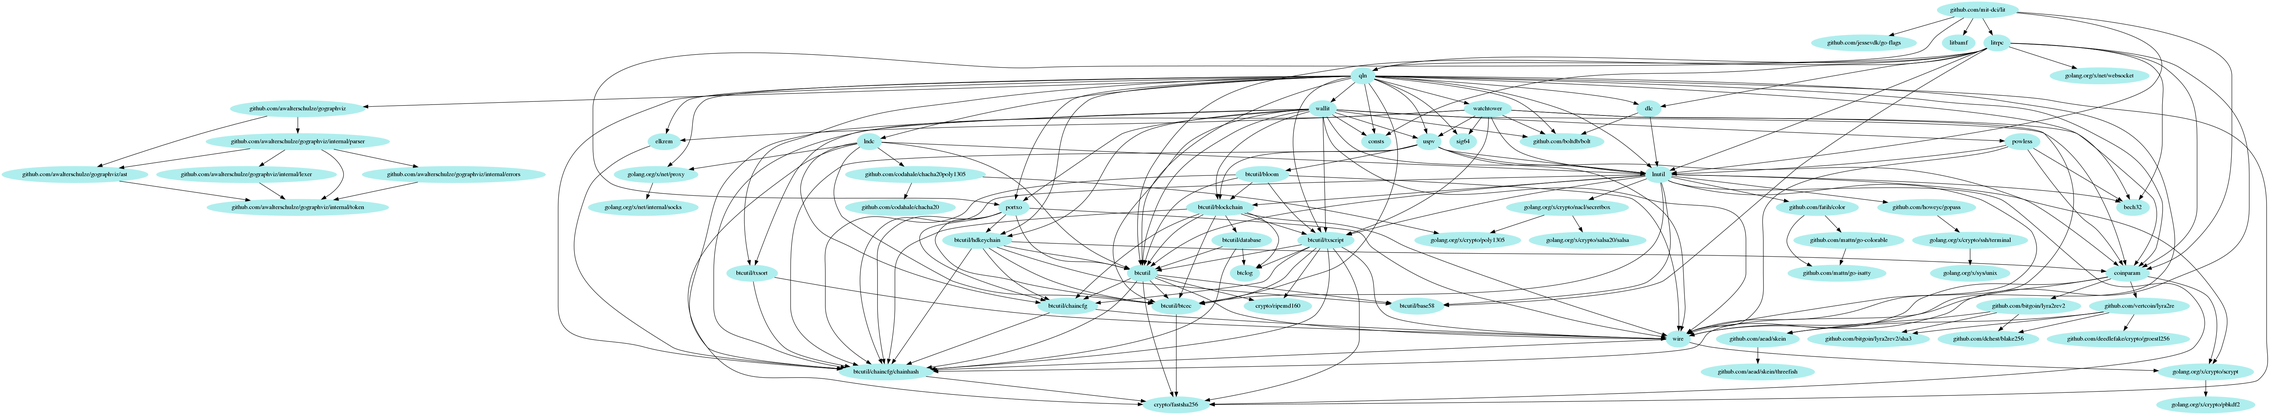
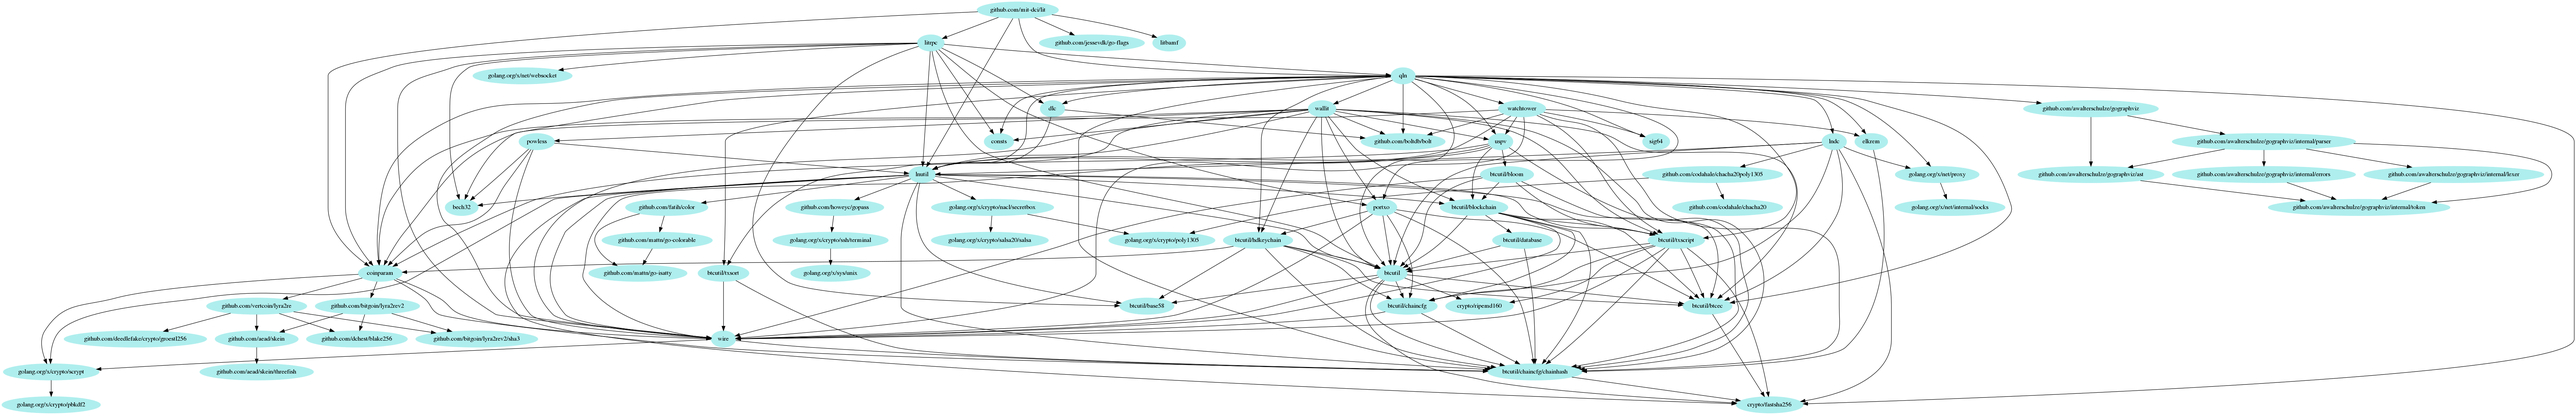
Fixed Makefile and cleaned up README (#269)
* Disabled building glit as part of `make all` since it doesn't actually work.

* Fixed incorrect btcd import.

* Updated dependency graph.

* Updated the README with cleaned up build instructions.

* More minor cleanups to README.

* Made the Makefile actually run tests now with `make`.

* Updated readme to reflect previous changes.

* Added multi-platform compilation and packaging script.

Also tweaked gitignores.

* Made the packaging script be a little prettier.

* Include README, LICENSE, and logo.
* If the commit has a git tag, use that instead of the hash in the relevant places.

* Let you select which arches/OSes to package for, and made the Git tag selection stricter.

Also updated the README to account for the new changes.

* Added automatic packaging for Linux/ARM.

diff --git a/qln/dualfund.go b/qln/dualfund.go
@@ -4,7 +4,7 @@ import (
 	"fmt"
 	"log"
 
-	"github.com/adiabat/btcd/btcec"
+	"github.com/mit-dci/lit/btcutil/btcec"
 	"github.com/mit-dci/lit/btcutil/txsort"
 	"github.com/mit-dci/lit/elkrem"
 	"github.com/mit-dci/lit/lnutil"

diff --git a/README.md b/README.md
@@ -10,74 +10,92 @@ Under development, not for use with real money.
 
 ### Prerequisites
 
-- [Git](https://git-scm.com/)
-- [Go](https://golang.org/doc/install)
+* [Git](https://git-scm.com/)
 
-- [Go](https://golang.org/doc/install)
+* [Go](https://golang.org/doc/install)
 
-- (Optional, Windows) a [Cygwin](https://cygwin.com/install.html) environment might make things easier for you.
+* make
+
+* (Optional, Windows) a [Cygwin](https://cygwin.com/install.html) environment might make things easier for you.
 
 ### Downloading
 
-1. Clone this repo with `git clone https://github.com/mit-dci/lit` or do `go get github.com/mit-dci/lit`
+Just use Git to download the repo and then cd into it.
 
-2. `cd` into the `lit` directory (either inside your GOPATH or your cloned directory)
-
-3. Run `make lit` to build lit and `make test` to run the tests. `make test with-python=true` will include the python tests (requires `bitcoind`). Alternatively, you can run `go build` to build lit if you're building inside your GOPATH.
-
-### Installing
-
-1. Set your Go variables to match your installed paths are set correctly:
-- `.../go/bin` (your install location) is in `$PATH` (Windows: Add the install location into your `PATH` System Variable)
-- `$GOPATH` is set the location of where you want lit (and other projects) to be
--  optional: If you want to have packages download in a separate location than your installation add `$GOROOT` set to another location
-
-2. Download the lit project with `go get github.com/mit-dci/lit`
-
-4. Run `./lit --tn3 1` to start lit
-
-The words `yup, yes, y, true, 1, ok, enable, on` can be used to specify that lit automatically connect to a set of populated seeds. It can also be replaced by the ip of the remote node you wish to connect to.
-
-### Building
-
-1. Go to the location of your lit installation with your defined gopath variable (`$GOPATH` on Linux and `%GOPATH%` Windows) to the lit location
-
-```
-cd [gopath]/src/github.com/mit-dci/lit
+```bash
+git clone https://github.com/mit-dci/lit
+cd lit
 ```
 
-2. If you try to build now with `go build` you will receive several errors such as
+### Installation
 
-```
-cannot find package "golang.org/x/crypto/nacl/secretbox"
-...
-cannot find package "golang.org/x/crypto/scrypt"
-...
-cannot find package [packageName]
-...
-```
+#### Linux, macOS, Cygwin, etc.
 
-3. In order to download all missing packages, do `go get ./...` or `go get .`
+Go has its own build process and dependency management, but for Lit it's a
+little more complicated, so we set up a Makefile to do most of the work for you.
 
-4. Go back to location of the lit folder if you are not already there ([Step 1](#building)) and try to rebuild the project.
+To build Lit and Lit-AF, just use the following command.  You don't have to have
+a `$GOPATH` set up in any particular way since we handle that for you.
 
-5. You may now want to build `lit-af`, the text based client which controls the lit node using
-
-```
-cd cmd/lit-af
-go build
+```bash
+make # or `make all`
 ```
 
-6. To run lit use:
+This will also run the test suite.  Running `make test with-python=true` will
+include the python tests (requires `bitcoind`) that do some heavier testing.
 
-(Note: Windows users can take off ./ but may need to change lit to lit.exe in the second line.)
+#### Windows
+
+It's recommended to install Cygwin and follow those setup instructions.  Or just
+download prebuilt binaries.
+
+1. Make sure that your `%GOPATH%` environmental variable is set up correctly.
+
+2. Download dependencies and then build with something like this:
 
 ```
-cd GOPATH/src/github.com/mit-dci/lit
-./lit --tn3 true
+go get -v ./...
+cd %GOPATH%\src\github.com\mit-dci\lit
+go build -v .
+go build -v .\cmd\lit-af
 ```
 
-The words `true`, `yes`, `1` can be used to specify that lit automatically connect to a set of populated seeds. It can also be replaced by the ip of the remote node you wish to connect to.
+### Running
+
+The below command will run Lit on the Bitcoin testnet3.  You probably need to
+have `bitcoind` running on your machine such that Lit can connect to it when do
+you this.
+
+(Note: Windows users can take off `./` but may need to change `lit` to `lit.exe`
+in the second line.)
+
+```bash
+./lit --tn3=true
+```
+
+Run `./lit --tn3=true` to start Lit on the Bitcoin testnet3
+
+The words `yup, yes, y, true, 1, ok, enable, on` can be used to specify that Lit
+automatically connect to a set of populated seeds. It can also be replaced by
+the address of the remote node you wish to connect to.
+
+### Packaging
+
+This is a separate thing, but you can make a archive package for distribution by
+using this:
+
+```
+./build/releasebuild.sh <os> <arch>
+```
+
+and it'll be dropped into `build/_releasedir`.  It should support any OS that
+Go and our dependencies support.  Just instead of `windows` use `win` and
+instead of `368` use `i386`.
+
+**ALSO:** You can also package for Linux, macOS, and Windows in both amd64 and
+i386 by just running `make package`.  (Except macOS is only amd64.)
+
+And running `./build/releasebuild.sh clean` will cleanup the dirs it generates.
 
 ## Using Lightning
 
@@ -89,9 +107,11 @@ Great! Now that you are all done setting up lit, you can
 
 ## Command line arguments
 
-When starting lit, the following command line arguments are available. The following commands may also be specified in lit.conf which is automatically generated on startup.
+When starting lit, the following command line arguments are available.  The
+following commands may also be specified in `lit.conf` which is automatically
+generated on startup.
 
-#### connecting to networks:
+#### Connecting to networks
 
 | Arguments                   | Details                                                      | Default Port  |
 | --------------------------- |--------------------------------------------------------------| ------------- |
@@ -99,14 +119,14 @@ When starting lit, the following command line arguments are available. The follo
 | `--reg <nodeHostName>`      | connect to `nodeHostName`, which is a bitcoin regtest node.  | 18444         |
 | `--lt4 <nodeHostName>`      | connect to `nodeHostName`, which is a litecoin testnet4 node.| 19335         |
 
-#### other settings:
+#### Other settings
 
-| Arguments                   | Details                                                      |
-| --------------------------- |--------------------------------------------------------------|
-| `-v` or `--verbose`         | Verbose; log everything to stdout as well as the lit.log file.  Lots of text.|
-| `--dir <folderPath>`        | use `folderPath` as the directory.  By default, saves to `~/.lit/` |
-| `-p` or `--rpcport <portNumber>` | listen for RPC clients on port `portNumber`.  Defaults to `8001`.  Useful when you want to run multiple lit nodes on the same computer (also need the `--dir` option) |
-| `-r` or `--reSync`          | try to re-sync to the blockchain |
+| Arguments                        | Details                                                                                                                                                                |
+| ---------------------------------|------------------------------------------------------------------------------------------------------------------------------------------------------------------------|
+| `-v` or `--verbose`              | Verbose; log everything to stdout as well as the lit.log file.  Lots of text.                                                                                          |
+| `--dir <folderPath>`             | Use `folderPath` as the directory.  By default, saves to `~/.lit/`.                                                                                                    |
+| `-p` or `--rpcport <portNumber>` | Listen for RPC clients on port `portNumber`.  Defaults to `8001`.  Useful when you want to run multiple lit nodes on the same computer (also need the `--dir` option). |
+| `-r` or `--reSync`               | Try to re-sync to the blockchain.                                                                                                                                      |
 
 ## Folders
 
